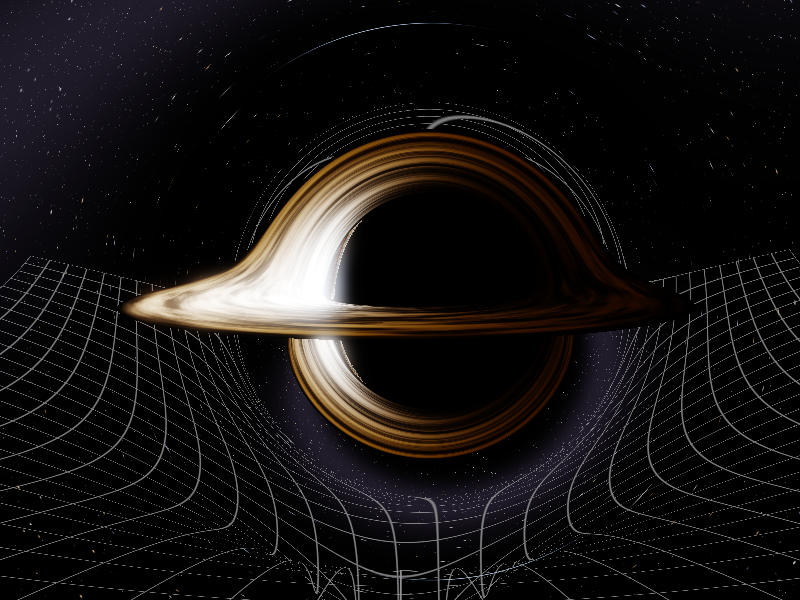
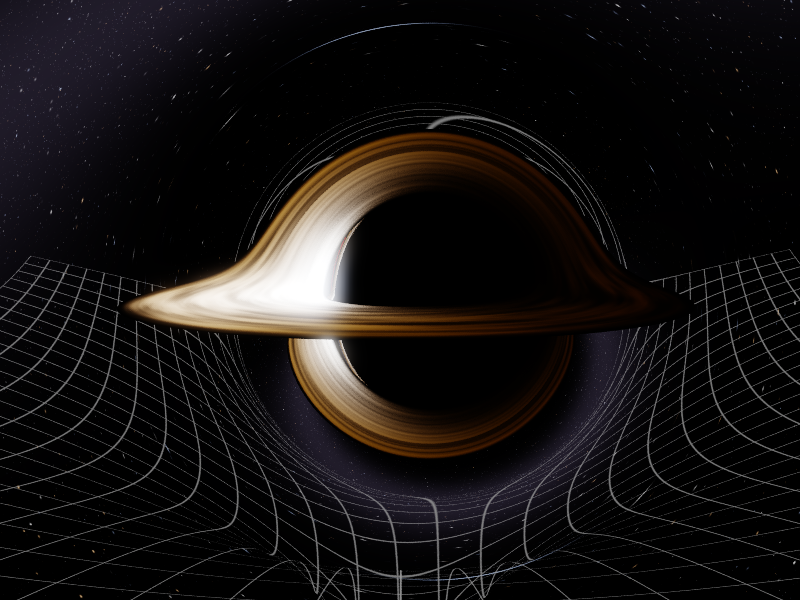
Add progressive rendering with temporal anti-aliasing
While the camera moves, render a low-res image every frame as before.
When it stops, refine a full-res image: each frame traces one pixel of
every 2x2 block (cycling), with Halton sub-pixel jitter, blended into a
running average.

- Full resolution now runs at ~60 FPS instead of ~15
- Anti-aliased disk edges, grid lines and stars; removes the grid
  speckle near the photon ring
- Blend weight floor of 0.2 keeps the animated gas sharp
- First pass fills whole 2x2 blocks so there are no holes
- Accumulation resets on any view or setting change
- Title shows effective samples per pixel

diff --git a/src/main.cpp b/src/main.cpp
@@ -26,6 +26,7 @@
 #include <iostream>
 #include <cctype>
 #include <ctime>
+#include <cstring>
 
 using namespace glm;
 using std::vector;
@@ -38,6 +39,9 @@ using std::vector;
 #endif
 #ifndef GL_SHADER_IMAGE_ACCESS_BARRIER_BIT
 #define GL_SHADER_IMAGE_ACCESS_BARRIER_BIT 0x00000020
+#endif
+#ifndef GL_TEXTURE_FETCH_BARRIER_BIT
+#define GL_TEXTURE_FETCH_BARRIER_BIT 0x00000008
 #endif
 typedef void (APIENTRYP PFN_BindImageTexture)(GLuint, GLuint, GLint, GLboolean, GLint, GLenum, GLenum);
 typedef void (APIENTRYP PFN_DispatchCompute)(GLuint, GLuint, GLuint);
@@ -178,7 +182,18 @@ layout(local_size_x=16, local_size_y=16) in;
 
 // Output image
 // HDR output (values may exceed 1); tone mapping + bloom happen afterwards
-layout(binding=0, rgba16f) writeonly uniform image2D outImage;
+// Read-write: in progressive mode each new sample is blended into what's there.
+layout(binding=0, rgba16f) uniform image2D outImage;
+
+// Progressive rendering. This dispatch covers pixels  gid*uStride + uOffset,
+// each shot through a sub-pixel jittered position, blended in with weight uBlend
+// (1 = overwrite). uFillBlock = 1 also writes the sample to the rest of its
+// stride x stride block, so the first pass after a reset has no holes.
+uniform int   uStride;
+uniform ivec2 uOffset;
+uniform vec2  uJitter;      // per-frame sub-pixel offset in [-0.5, 0.5]
+uniform float uBlend;
+uniform int   uFillBlock;
 
 // Camera UBO: std140-safe packing
 layout(std140, binding=1) uniform Camera {
@@ -481,6 +496,25 @@ const float GRID_LINE_PX   = 1.1;    // line width in pixels
 const vec3  GRID_COLOR     = vec3(0.5);
 const float GRID_ALPHA     = 0.7;
 
+// Store a sample: blend into the running average, or overwrite (and optionally
+// fill the whole block on the first pass after a reset).
+void writeSample(ivec2 pix, vec4 c, int W, int H){
+    if (uBlend >= 1.0) {
+        if (uFillBlock == 1) {
+            for (int dy = 0; dy < uStride; ++dy)
+            for (int dx = 0; dx < uStride; ++dx) {
+                ivec2 q = pix + ivec2(dx, dy);
+                if (q.x < W && q.y < H) imageStore(outImage, q, c);
+            }
+        } else {
+            imageStore(outImage, pix, c);
+        }
+    } else {
+        vec4 old = imageLoad(outImage, pix);
+        imageStore(outImage, pix, mix(old, c, uBlend));
+    }
+}
+
 // signed height above the surface (rs units, rs = 1)
 float gridF(vec3 p, float y0){
     float d = max(length(p.xz), 1.0);
@@ -490,7 +524,7 @@ float gridF(vec3 p, float y0){
 void main(){
     int WIDTH  = CAM.ires.x;
     int HEIGHT = CAM.ires.y;
-    ivec2 pix = ivec2(gl_GlobalInvocationID.xy);
+    ivec2 pix = ivec2(gl_GlobalInvocationID.xy) * uStride + uOffset;
     if (pix.x >= WIDTH || pix.y >= HEIGHT) return;
     bool rtGrid = CAM.ires.z == 1;
 
@@ -504,8 +538,12 @@ void main(){
     float rPlus = kerr.y;
     A = -aPhys;                                 // backwards in time == opposite spin
 
-    float u = (2.0*(pix.x+0.5)/WIDTH - 1.0) * CAM.params.y * CAM.params.x;
-    float v_ = (1.0 - 2.0*(pix.y+0.5)/HEIGHT) * CAM.params.x;
+    // per-pixel random rotation of the shared jitter sequence, so neighbouring
+    // pixels don't all sample the same sub-pixel spot (avoids visible patterns)
+    vec2 jit = fract(uJitter + 0.5 + vec2(hash13(vec3(pix, 1.0)), hash13(vec3(pix, 7.0)))) - 0.5;
+    if (uBlend >= 1.0) jit = uJitter;   // fresh image: keep it deterministic
+    float u = (2.0*(pix.x + 0.5 + jit.x)/WIDTH - 1.0) * CAM.params.y * CAM.params.x;
+    float v_ = (1.0 - 2.0*(pix.y + 0.5 + jit.y)/HEIGHT) * CAM.params.x;
     vec3 dir = normalize(u * CAM.camRight.xyz - v_ * CAM.camUp.xyz + CAM.camFwd.xyz);
 
     vec3 x  = CAM.camPos.xyz / RS;  // world position, rs units (used for hit tests)
@@ -513,7 +551,7 @@ void main(){
     vec3 xl = x.zxy;                // local Kerr-Schild position (spin axis = Z)
     float fCam = ksF(xl);
     if (fCam >= 0.999) {            // camera inside the horizon: nothing to see
-        imageStore(outImage, pix, vec4(0,0,0,1));
+        writeSample(pix, vec4(0,0,0,1), WIDTH, HEIGHT);
         return;
     }
     vec3 pl = initMomentum(xl, dir.zxy);
@@ -627,7 +665,7 @@ void main(){
 
     // grid lines in front, everything else behind (premultiplied "over")
     color = front + (1.0 - front.a) * color;
-    imageStore(outImage, pix, color);
+    writeSample(pix, color, WIDTH, HEIGHT);
 }
 )";
 
@@ -809,33 +847,101 @@ static void uploadObjsUBO(){
     glBufferSubData(GL_UNIFORM_BUFFER, 0, sizeof(ObjsUBO), &u);
 }
 
+// ---------- Progressive rendering ----------
+// Moving camera: trace every pixel of a low-res image each frame (gTexOut).
+// Still camera:  full-res image (gTexAccum), but each frame traces only one
+// pixel of every 2x2 block, cycling through the four. Every visit uses a new
+// sub-pixel jitter and is blended into a running average -> anti-aliasing.
+// The average keeps a minimum weight for new samples (PROG_BLEND_MIN) so
+// animated gas and moving stars stay sharp instead of smearing.
+static GLuint gTexAccum = 0;       // full-res progressive image
+static GLuint gTexCur   = 0;       // whichever image is shown this frame
+static const int   PROG_STRIDE    = 2;
+static const float PROG_BLEND_MIN = 0.2f;   // ~5-sample moving average at most
+static int  gPassIndex = 0;        // still-camera passes since the last reset
+static bool gAccumReset = true;
+
+static void initRenderTargets(){
+    glBindTexture(GL_TEXTURE_2D, gTexOut);
+    glTexImage2D(GL_TEXTURE_2D, 0, GL_RGBA16F, gMovingW, gMovingH, 0, GL_RGBA, GL_FLOAT, nullptr);
+    glGenTextures(1, &gTexAccum);
+    glBindTexture(GL_TEXTURE_2D, gTexAccum);
+    glTexImage2D(GL_TEXTURE_2D, 0, GL_RGBA16F, gStillW, gStillH, 0, GL_RGBA, GL_FLOAT, nullptr);
+    glTexParameteri(GL_TEXTURE_2D, GL_TEXTURE_MIN_FILTER, GL_LINEAR);
+    glTexParameteri(GL_TEXTURE_2D, GL_TEXTURE_MAG_FILTER, GL_LINEAR);
+    gTexCur = gTexAccum;
+}
+
+// Anything that changes the picture (other than the animated gas, which the
+// moving average handles) restarts the accumulation.
+static bool sceneChanged(){
+    static double last[9] = {};
+    double now[9] = { gCam.radius, gCam.azimuth, gCam.elevation, gSpin,
+                      double(gRealDisk), double(gShowStars), double(gGridMode),
+                      double(gObjs.size()), double(gWinW) };
+    bool changed = std::memcmp(last, now, sizeof(now)) != 0;
+    std::memcpy(last, now, sizeof(now));
+    return changed;
+}
+
+static float halton(int i, int b){
+    float f = 1.0f, r = 0.0f;
+    while (i > 0) { f /= float(b); r += f * float(i % b); i /= b; }
+    return r;
+}
+
+// Effective samples per pixel (for the title bar). Once the blend weight hits
+// its floor w, the running average behaves like ~(2 - w) / w samples.
+static int progressiveSamples(){
+    if (gCam.moving) return 1;
+    int n = std::max(1, gPassIndex / (PROG_STRIDE*PROG_STRIDE));
+    int cap = int((2.0f - PROG_BLEND_MIN) / PROG_BLEND_MIN + 0.5f);
+    return std::min(n, cap);
+}
+
 // ---------- Compute dispatch ----------
 static void dispatchCompute(){
-    // ensure output texture matches compute size
-    int cw = gCam.moving ? gMovingW : gStillW;
-    int ch = gCam.moving ? gMovingH : gStillH;
-
-    // only (re)allocate when the resolution actually changes
-    static int texW = 0, texH = 0;
-    glBindTexture(GL_TEXTURE_2D, gTexOut);
-    if (cw != texW || ch != texH) {
-        glTexImage2D(GL_TEXTURE_2D, 0, GL_RGBA16F, cw, ch, 0, GL_RGBA, GL_FLOAT, nullptr);
-        texW = cw; texH = ch;
-    }
-
     glUseProgram(gProgComp);
-    // Bind UBOs
     glBindBufferBase(GL_UNIFORM_BUFFER, 1, gUBOCamera);
     glBindBufferBase(GL_UNIFORM_BUFFER, 2, gUBODisk);
     glBindBufferBase(GL_UNIFORM_BUFFER, 3, gUBOObjs);
 
-    // bind image
-    glBindImageTexture(0, gTexOut, 0, GL_FALSE, 0, GL_WRITE_ONLY, GL_RGBA16F);
+    int stride = 1, offX = 0, offY = 0, fill = 0;
+    float blend = 1.0f, jx = 0.0f, jy = 0.0f;
+    int w, h;
+    GLuint target;
 
-    GLuint gx = (GLuint) ((cw + 15) / 16);
-    GLuint gy = (GLuint) ((ch + 15) / 16);
-    glDispatchCompute(gx, gy, 1);
-    glMemoryBarrier(GL_SHADER_IMAGE_ACCESS_BARRIER_BIT);
+    bool changed = sceneChanged();
+    if (gCam.moving) {
+        target = gTexOut; w = gMovingW; h = gMovingH;
+        gAccumReset = true;                    // start fresh once the camera stops
+    } else {
+        target = gTexAccum; w = gStillW; h = gStillH;
+        if (changed || gAccumReset) { gPassIndex = 0; gAccumReset = false; }
+        const int cells = PROG_STRIDE * PROG_STRIDE;
+        static const int order[4][2] = { {0,0}, {1,1}, {1,0}, {0,1} };  // spread out
+        int k = gPassIndex % cells;
+        int n = gPassIndex / cells;            // samples this pixel already has
+        stride = PROG_STRIDE;
+        offX = order[k][0]; offY = order[k][1];
+        blend = (n == 0) ? 1.0f : std::max(1.0f / float(n + 1), PROG_BLEND_MIN);
+        if (n > 0) { jx = halton(n, 2) - 0.5f; jy = halton(n, 3) - 0.5f; }
+        fill = (gPassIndex == 0) ? 1 : 0;      // first pass: no holes
+        ++gPassIndex;
+    }
+
+    glUniform1i(glGetUniformLocation(gProgComp, "uStride"), stride);
+    glUniform2i(glGetUniformLocation(gProgComp, "uOffset"), offX, offY);
+    glUniform2f(glGetUniformLocation(gProgComp, "uJitter"), jx, jy);
+    glUniform1f(glGetUniformLocation(gProgComp, "uBlend"), blend);
+    glUniform1i(glGetUniformLocation(gProgComp, "uFillBlock"), fill);
+
+    glBindImageTexture(0, target, 0, GL_FALSE, 0, GL_READ_WRITE, GL_RGBA16F);
+
+    int tw = (w + stride - 1) / stride, th = (h + stride - 1) / stride;
+    glDispatchCompute(GLuint((tw + 15) / 16), GLuint((th + 15) / 16), 1);
+    glMemoryBarrier(GL_SHADER_IMAGE_ACCESS_BARRIER_BIT | GL_TEXTURE_FETCH_BARRIER_BIT);
+    gTexCur = target;
 }
 
 // ---------- Post-processing: bloom + tone mapping ----------
@@ -945,7 +1051,7 @@ static void runBloom(){
 
     glUseProgram(gProgBright);
     glUniform1f(glGetUniformLocation(gProgBright, "uThreshold"), 0.8f);
-    pass(gProgBright, gTexOut, gBloomA1);    // bright pass, downsample to 1/2
+    pass(gProgBright, gTexCur, gBloomA1);    // bright pass, downsample to 1/2
     blur(gBloomA1, gBloomA2, 2);             // tight glow
     pass(gProgBlit, gBloomA1.tex, gBloomB1); // downsample to 1/4
     blur(gBloomB1, gBloomB2, 3);             // wide haze
@@ -959,7 +1065,7 @@ static void runBloom(){
 // ---------- Draw ----------
 static void drawQuad(){
     glUseProgram(gProgComposite);
-    glActiveTexture(GL_TEXTURE0); glBindTexture(GL_TEXTURE_2D, gTexOut);
+    glActiveTexture(GL_TEXTURE0); glBindTexture(GL_TEXTURE_2D, gTexCur);
     glActiveTexture(GL_TEXTURE1); glBindTexture(GL_TEXTURE_2D, gBloomA1.tex);
     glActiveTexture(GL_TEXTURE2); glBindTexture(GL_TEXTURE_2D, gBloomB1.tex);
     glActiveTexture(GL_TEXTURE0);
@@ -1160,6 +1266,7 @@ static void initGL(){
     gProgComp = makeComp(CS_GEOD);
 
     createQuad();
+    initRenderTargets();
     initBloom();
     generateGrid();
 
@@ -1215,8 +1322,8 @@ int main(int argc, char** argv){
         ++fpsFrames;
         if (frameT - fpsT0 >= 0.5) {
             char title[128];
-            std::snprintf(title, sizeof(title), "Black Hole  |  %.0f FPS  |  spin a/M = %.2f  |  gravity %s",
-                          fpsFrames / (frameT - fpsT0), gSpin, gGravity ? "ON" : "off");
+            std::snprintf(title, sizeof(title), "Black Hole  |  %.0f FPS  |  %d spp  |  spin a/M = %.2f  |  gravity %s",
+                          fpsFrames / (frameT - fpsT0), progressiveSamples(), gSpin, gGravity ? "ON" : "off");
             glfwSetWindowTitle(gWin, title);
             fpsFrames = 0; fpsT0 = frameT;
         }

diff --git a/README.md b/README.md
@@ -29,6 +29,10 @@ relativistic effects.
 - **Animated gas.** A procedural texture with differential rotation: inner
   rings orbit faster than outer ones.
 - **HDR bloom and ACES tone mapping.**
+- **Progressive rendering.** A quick low-res preview while you move the
+  camera. When it stops, the full-res image is refined over the next frames
+  with jittered samples (anti-aliasing), tracing only a quarter of the pixels
+  per frame so it stays at 60 FPS.
 - **Ray-traced spacetime grid.** The black hole's embedding diagram (Flamm's
   paraboloid) is drawn as a grid that light rays actually hit, so it is
   lensed, wraps around the shadow, and is hidden behind the hole.
@@ -52,7 +56,8 @@ relativistic effects.
 | `P` | Save a screenshot (`screenshot_<time>.bmp`) |
 | `Esc` | Quit |
 
-The window title shows the FPS, the spin, and whether gravity is on.
+The window title shows the FPS, the effective samples per pixel, the spin,
+and whether gravity is on.
 
 ## Building (Windows, MSVC)
 
@@ -111,5 +116,10 @@ Everything is in [`src/main.cpp`](src/main.cpp), including the shaders.
    `g = 1 / (u_cam · uᵗ · (1 − Ω·L))`. This single factor includes Doppler
    beaming, frame dragging and gravitational redshift. Observed intensity
    scales as `g⁴` and observed temperature as `g · T`.
-5. **Post-processing.** The HDR image goes through a bright pass, a two-scale
+5. **Progressive refinement.** With the camera still, each frame traces one
+   pixel of every 2×2 block, cycling through the four. Each sample is shot
+   through a jittered sub-pixel position (Halton sequence) and blended into a
+   running average. The blend weight never drops below 0.2, so the animated
+   gas stays sharp. Any change to the view or settings restarts the average.
+6. **Post-processing.** The HDR image goes through a bright pass, a two-scale
    Gaussian blur and ACES tone mapping. The result is blended over the grid.
